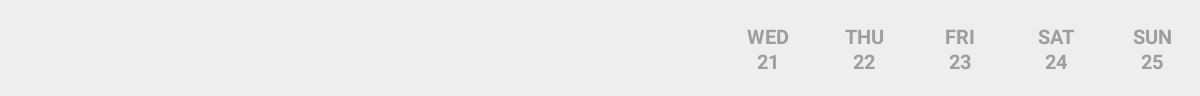
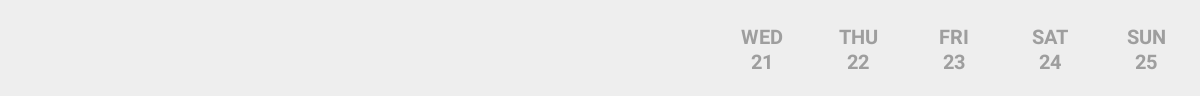
HeaderView: Fix padding

diff --git a/uhabits-android/src/main/java/org/isoron/uhabits/activities/habits/list/views/HeaderView.kt b/uhabits-android/src/main/java/org/isoron/uhabits/activities/habits/list/views/HeaderView.kt
@@ -122,7 +122,7 @@ class HeaderView(
 
             repeat(buttonCount) { index ->
                 rect.set(0f, 0f, width, height)
-                rect.offset(canvas.width.toFloat(), 0f)
+                rect.offset(canvas.width.toFloat() - dp(3.0f), 0f)
 
                 if (isReversed) rect.offset(-(index + 1) * width, 0f)
                 else rect.offset((index - buttonCount) * width, 0f)
